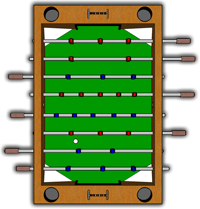
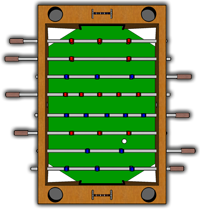
In game details, the table image is incorrect Fixes #30

diff --git a/src/main/resources/site/parts/game/game.html b/src/main/resources/site/parts/game/game.html
@@ -18,7 +18,7 @@
                     </a>
                     {{/firstHalfWinners}}
                 </div>
-                <img src="{{tableImgUrl}}">
+                <img class="foos-table-img" src="{{tableImgUrl}}">
 
                 <div class="foos-game-replay-display-team">
                     {{#firstHalfLosers}}
@@ -53,7 +53,7 @@
                     </a>
                     {{/secondHalfWinners}}
                 </div>
-                <img src="{{tableImgUrl}}">
+                <img class="foos-table-img" src="{{tableImgUrl}}">
 
                 <div class="foos-game-replay-display-team">
                     {{#secondHalfLosers}}

diff --git a/src/main/resources/assets/css/main.css b/src/main/resources/assets/css/main.css
@@ -291,6 +291,11 @@ img {
     justify-content: flex-start;
     align-items: center;
 }
+
+img.foos-table-img {
+    border-radius: 0;
+}
+
 /* Game ratings */
 .foos-game-winner-rating, .foos-game-loser-rating {
     font-size: 1em;
